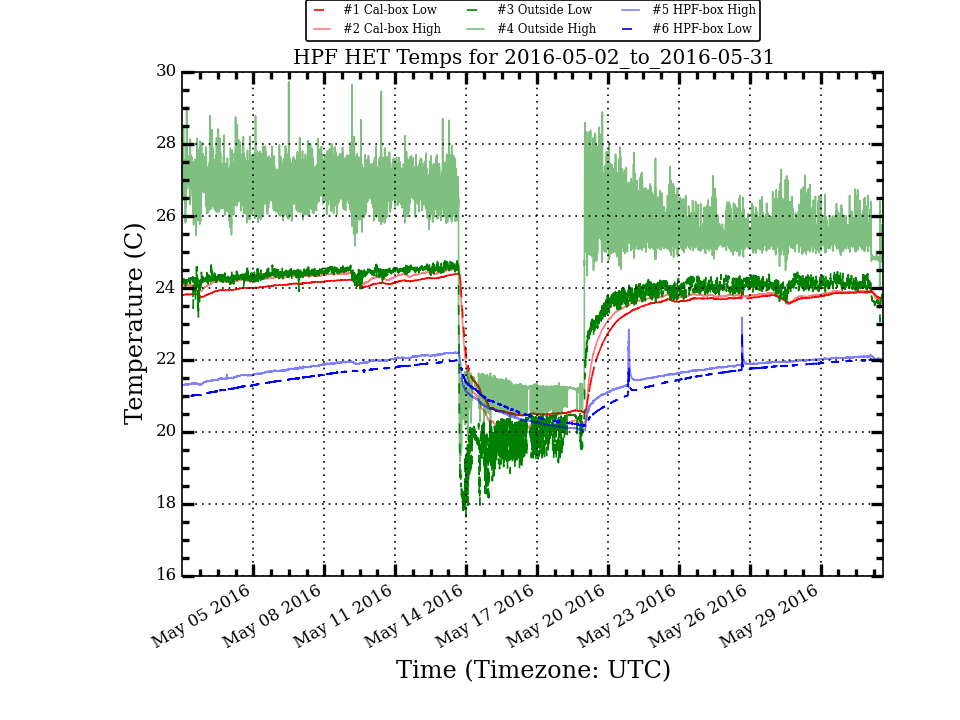
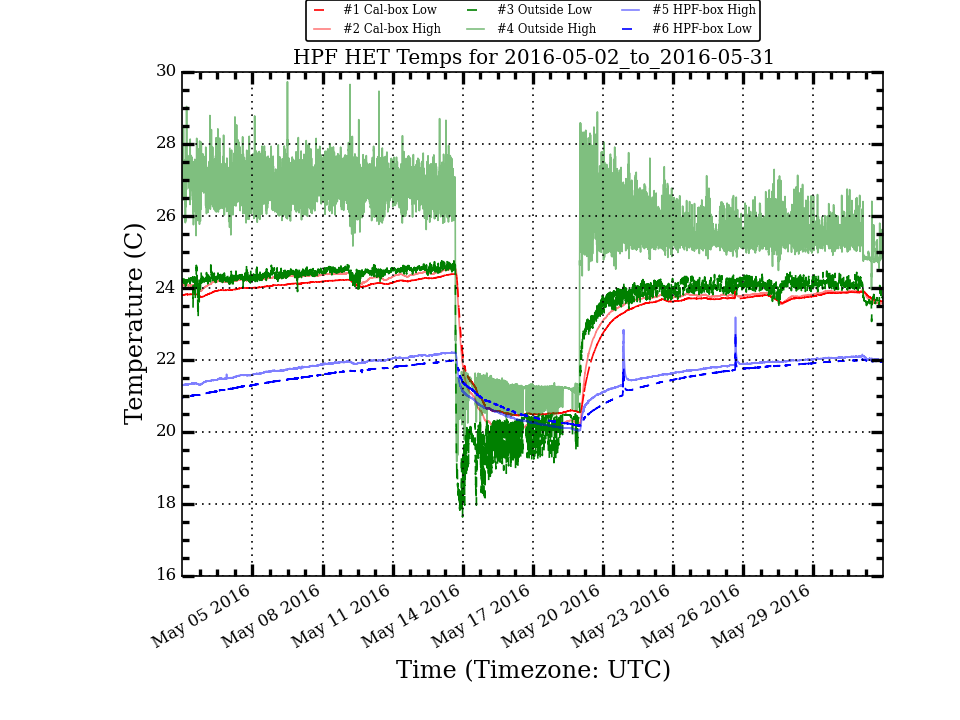
Update HPF Temp Plots

diff --git a/research/hpf_temps/plots/LakeShoreLogTotal_month_stats.html b/research/hpf_temps/plots/LakeShoreLogTotal_month_stats.html
@@ -10,54 +10,54 @@
  </TR>
  <TR>
   <TD>Cal_Low</TD>
-  <TD>23.266</TD>
-  <TD>1.265</TD>
-  <TD>23.764</TD>
+  <TD>23.270</TD>
+  <TD>1.258</TD>
+  <TD>23.760</TD>
   <TD>24.396</TD>
   <TD>20.460</TD>
   <TD>3.936</TD>
  </TR>
  <TR>
   <TD>Cal_High</TD>
-  <TD>23.326</TD>
-  <TD>1.432</TD>
-  <TD>23.825</TD>
+  <TD>23.329</TD>
+  <TD>1.424</TD>
+  <TD>23.821</TD>
   <TD>24.532</TD>
   <TD>20.090</TD>
   <TD>4.442</TD>
  </TR>
  <TR>
   <TD>Out_Low</TD>
-  <TD>23.393</TD>
-  <TD>1.677</TD>
-  <TD>24.114</TD>
+  <TD>23.396</TD>
+  <TD>1.668</TD>
+  <TD>24.108</TD>
   <TD>24.796</TD>
   <TD>17.638</TD>
   <TD>7.158</TD>
  </TR>
  <TR>
   <TD>Out_High</TD>
-  <TD>25.291</TD>
-  <TD>2.093</TD>
-  <TD>25.756</TD>
+  <TD>25.287</TD>
+  <TD>2.081</TD>
+  <TD>25.728</TD>
   <TD>29.728</TD>
   <TD>19.178</TD>
   <TD>10.550</TD>
  </TR>
  <TR>
   <TD>HPF_High</TD>
-  <TD>21.536</TD>
-  <TD>0.600</TD>
-  <TD>21.740</TD>
+  <TD>21.542</TD>
+  <TD>0.598</TD>
+  <TD>21.752</TD>
   <TD>23.188</TD>
   <TD>20.039</TD>
   <TD>3.149</TD>
  </TR>
  <TR>
   <TD>HPF_Low</TD>
-  <TD>21.386</TD>
-  <TD>0.512</TD>
-  <TD>21.524</TD>
+  <TD>21.393</TD>
+  <TD>0.513</TD>
+  <TD>21.530</TD>
   <TD>22.818</TD>
   <TD>20.173</TD>
   <TD>2.645</TD>

diff --git a/research/hpf_temps/plots/LakeShoreLogTotal_week_stats.html b/research/hpf_temps/plots/LakeShoreLogTotal_week_stats.html
@@ -10,54 +10,54 @@
  </TR>
  <TR>
   <TD>Cal_Low</TD>
-  <TD>23.768</TD>
-  <TD>0.077</TD>
-  <TD>23.758</TD>
+  <TD>23.762</TD>
+  <TD>0.080</TD>
+  <TD>23.752</TD>
   <TD>23.901</TD>
   <TD>23.586</TD>
   <TD>0.315</TD>
  </TR>
  <TR>
   <TD>Cal_High</TD>
-  <TD>23.807</TD>
-  <TD>0.086</TD>
-  <TD>23.813</TD>
+  <TD>23.796</TD>
+  <TD>0.097</TD>
+  <TD>23.809</TD>
   <TD>24.076</TD>
   <TD>23.549</TD>
   <TD>0.527</TD>
  </TR>
  <TR>
   <TD>Out_Low</TD>
-  <TD>24.052</TD>
-  <TD>0.173</TD>
-  <TD>24.074</TD>
+  <TD>24.034</TD>
+  <TD>0.187</TD>
+  <TD>24.066</TD>
   <TD>24.472</TD>
   <TD>23.071</TD>
   <TD>1.401</TD>
  </TR>
  <TR>
   <TD>Out_High</TD>
-  <TD>25.418</TD>
-  <TD>0.330</TD>
-  <TD>25.394</TD>
+  <TD>25.393</TD>
+  <TD>0.343</TD>
+  <TD>25.380</TD>
   <TD>27.293</TD>
   <TD>23.956</TD>
   <TD>3.337</TD>
  </TR>
  <TR>
   <TD>HPF_High</TD>
-  <TD>21.989</TD>
-  <TD>0.095</TD>
-  <TD>21.992</TD>
+  <TD>21.990</TD>
+  <TD>0.092</TD>
+  <TD>22.000</TD>
   <TD>23.188</TD>
   <TD>21.804</TD>
   <TD>1.384</TD>
  </TR>
  <TR>
   <TD>HPF_Low</TD>
-  <TD>21.873</TD>
-  <TD>0.098</TD>
-  <TD>21.878</TD>
+  <TD>21.877</TD>
+  <TD>0.097</TD>
+  <TD>21.890</TD>
   <TD>22.818</TD>
   <TD>21.663</TD>
   <TD>1.155</TD>
